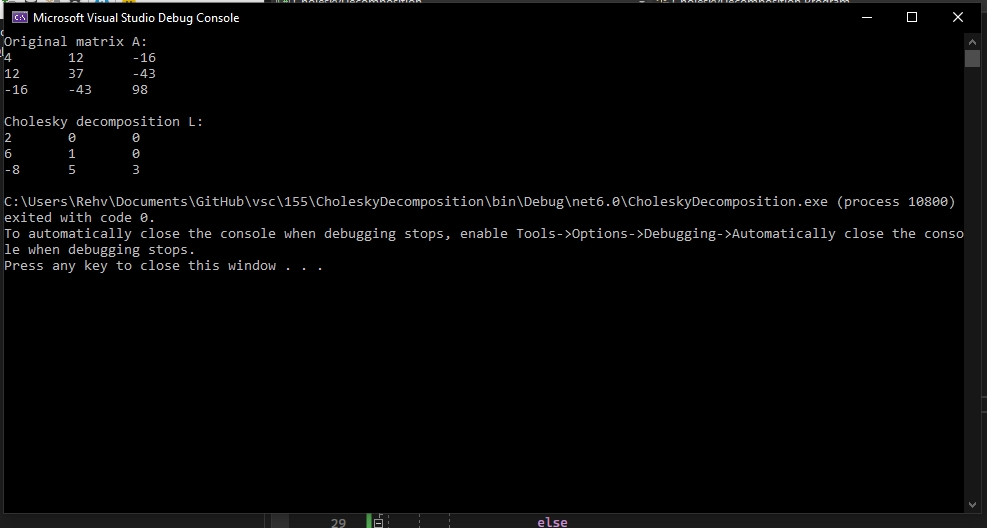
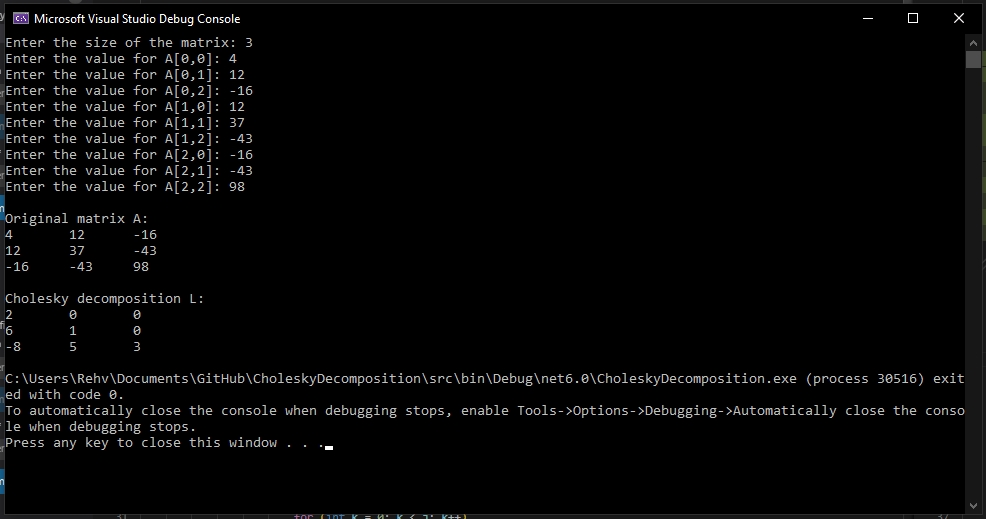
matrix input

diff --git a/src/Program.cs b/src/Program.cs
@@ -6,13 +6,19 @@ namespace CholeskyDecomposition
     {
         static void Main(string[] args)
         {
-            double[,] A = {
-                { 4, 12, -16 },
-                { 12, 37, -43 },
-                { -16, -43, 98 }
-            };
+            Console.Write("Enter the size of the matrix: ");
+            int n = int.Parse(Console.ReadLine());
 
-            int n = A.GetLength(0);
+            double[,] A = new double[n, n];
+            for (int i = 0; i < n; i++)
+            {
+                for (int j = 0; j < n; j++)
+                {
+                    Console.Write($"Enter the value for A[{i},{j}]: ");
+                    A[i, j] = double.Parse(Console.ReadLine());
+                }
+            }
+
             double[,] L = new double[n, n];
 
             for (int i = 0; i < n; i++)
@@ -35,7 +41,7 @@ namespace CholeskyDecomposition
                 }
             }
 
-            Console.WriteLine("Original matrix A:");
+            Console.WriteLine("\nOriginal matrix A:");
             PrintMatrix(A);
 
             Console.WriteLine("\nCholesky decomposition L:");
